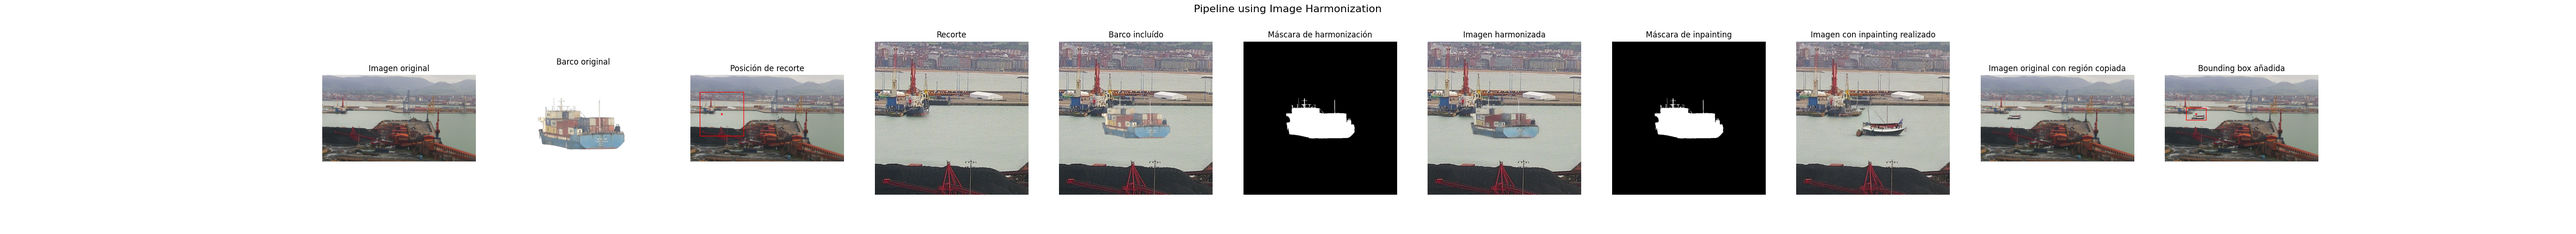
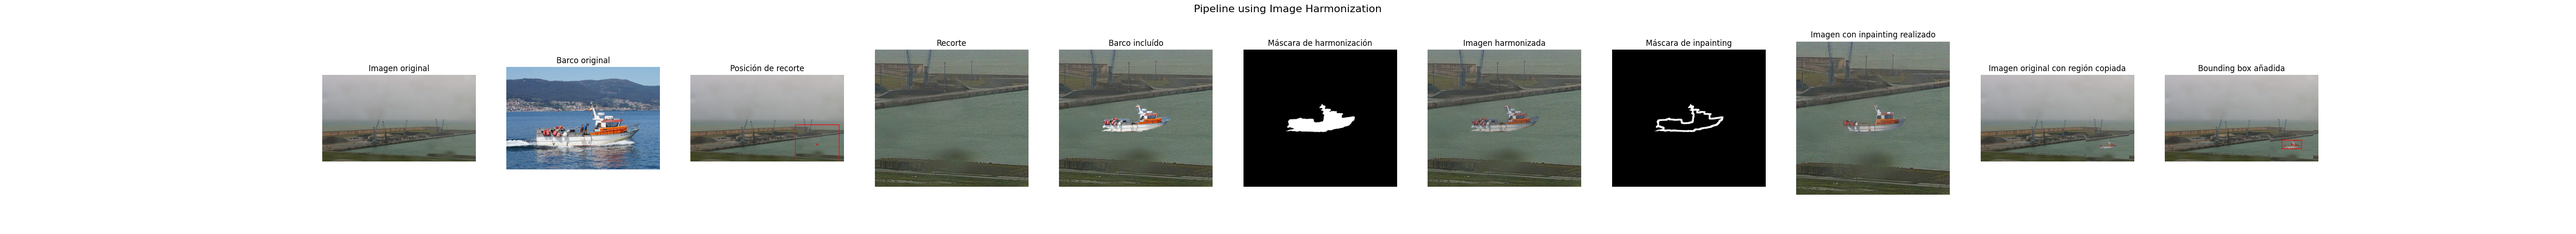
nueva cosa

Changed region(s): [[0.1244, 0.12, 0.9016, 0.84]]

diff --git a/pipelines/harmonization/main.py b/pipelines/harmonization/main.py
@@ -2,6 +2,7 @@ from typing import Tuple
 from PIL import Image
 from dataclasses import dataclass
 
+import random
 from pipelines.dependencies.background_removers.background_remover import BackgroundRemover
 from pipelines.dependencies.background_removers.mmseg_background_remover import MMSegBackgroundRemover
 from pipelines.dependencies.image_cropper import ImageCropper
@@ -13,6 +14,8 @@ from pipelines.dependencies.image_harmonizers.libcom_image_harmonizer import Lib
 from pipelines.dependencies.image_inpainters.image_inpainter import ImageInpainter
 from pipelines.dependencies.image_inpainters.stable_diffusion_image_inpainter import StableDiffusionImageInpainter
 from pipelines.dependencies.image_paster import ImagePaster
+from pipelines.dependencies.loggers.logger import Logger
+from pipelines.dependencies.loggers.terminal_logger import TerminalLogger
 from pipelines.dependencies.mmseg_api import MMSegAPI
 from pipelines.dependencies.point_extractors.mmseg_point_extractor import MMSegPointExtractor
 from pipelines.dependencies.point_extractors.point_extractor import PointExtractor
@@ -48,14 +51,20 @@ class HarmonizationDatasetGenerator:
     inpainter: ImageInpainter
     harmonizer: ImageHarmonizer
     quality_evaluator: QualityEvaluator
+    logger : Logger
 
     def generate(self, resolution: Tuple[int, int], save_as="result1"):
+        self.logger.info("Generating background")
         background = self.background_image_generator.generate()
+        self.logger.info("Generating boat")
         boat = self.boat_image_generator.generate()
 
+        self.logger.info("Extracting point of possible boat")
         boat_position = self.point_extractor.extract(background)
-        boat_without_background = boat
+        self.logger.info("Removing background of boat")
+        boat_without_background = self.background_remover.remove(boat)
 
+        self.logger.info("Making image composition of background and boat")
         background_cropped_image = self.image_cropper.crop(
             image=background,
             center=boat_position,
@@ -67,11 +76,13 @@ class HarmonizationDatasetGenerator:
             background=background_cropped_image,
             foreground=cleaned_boat,
             center=(background_cropped_image.size[0]//2, background_cropped_image.size[1]//2),
-            size_of=0.45
+            size_of=0.55
         )
+        self.logger.info("Harmonizing boat")
 
         harmonization_mask = self.generate_harmonization_mask(cleaned_boat, background_cropped_image)
         harmonized_image = self.harmonizer.harmonize(composited_image, harmonization_mask)
+        self.logger.info("Inpainting boat borders")
         inpainting_mask, fg_shape = self.generate_inpainting_mask(cleaned_boat, background_cropped_image, fg_shape)
         prompt = "A boat"
         inpainted_image = self.inpainter.inpaint(harmonized_image, inpainting_mask, prompt=prompt)
@@ -80,6 +91,7 @@ class HarmonizationDatasetGenerator:
             pasted_image=inpainted_image,
             center=boat_position
         )
+        self.logger.info("Generating insights of process")
         plot_images(
             [
                 background,
@@ -98,9 +110,9 @@ class HarmonizationDatasetGenerator:
             main_title="Pipeline using Image Harmonization",
             save_as=save_as
         )
-        self.quality_evaluator.evaluate_text_image_similarity(prompt, inpainted_image)
-        self.quality_evaluator.evaluate_image_similarity(background, pasted)
-        self.quality_evaluator.show_scores()
+        #self.quality_evaluator.evaluate_text_image_similarity(prompt, inpainted_image)
+        #self.quality_evaluator.evaluate_image_similarity(background, pasted)
+        #self.quality_evaluator.show_scores()
         return pasted
 
     def generate_inpainting_mask(self, cleaned_boat, cropped_image, fg_shape):
@@ -108,7 +120,7 @@ class HarmonizationDatasetGenerator:
             background=Image.new("RGB", cropped_image.size, color=(0, 0, 0)),
             foreground=self.inpainting_mask_generator.generate(cleaned_boat),
             center=(cropped_image.size[0] // 2, cropped_image.size[1] // 2),
-            size_of=0.45
+            size_of=0.55
         )
         return composited_inpainting_mask, fg_shape
 
@@ -117,39 +129,39 @@ class HarmonizationDatasetGenerator:
             background=Image.new("RGB", cropped_image.size, color=(0, 0, 0)),
             foreground=self.harmonization_mask_generator.generate(cleaned_boat),
             center=(cropped_image.size[0] // 2, cropped_image.size[1] // 2),
-            size_of=0.45
+            size_of=0.55
         )
         return composited_harmonization_mask
 
 
 folder = sys.argv[0] if sys.argv[0] else 0
 
-for iteration in range(0, 1):
-    dataset_generator = HarmonizationDatasetGenerator(
-        point_extractor=MMSegPointExtractor(MMSegAPI(url="http://100.103.218.9:4553/v1")),
-        background_image_generator=StochasticImageGenerator("assets/bgs/"),
-        boat_image_generator=StochasticImageGenerator("assets/boats/with_bg"),
-        background_remover=MMSegBackgroundRemover("ship",
-                                                  MMSegAPI(url="http://100.103.218.9:4553/v1")
-                                                  ),
-        image_cropper=ImageCropper(),
-        image_compositor=ImageCompositor(),
-        image_shape_adjuster=TransparentImageAdjuster(),
-        transparent_image_cleaner=TransparentImageCleaner(threshold=0.4),
-        harmonization_mask_generator=TransparentMaskGenerator(fill=True),
-        harmonizer=LibcomImageHarmonizer(),
-        inpainting_mask_generator=TransparentMaskGenerator(fill=False, border_size=121, inside_border=True),
-        inpainter=StableDiffusionImageInpainter(),
-        image_paster=ImagePaster(),
-        quality_evaluator=QualityEvaluator(
-            image_similarity=LPIPSImageSimilarityEvaluator(),
-            text_image_similarity= CLIPTextImageSimilarityEvaluator(),
-            aesthetic_eval=None,
-            dataset_similarity=FIDDatasetSimilarityEvaluator()
-        )
+dataset_generator = HarmonizationDatasetGenerator(
+    point_extractor=MMSegPointExtractor(MMSegAPI(url="http://100.103.218.9:4553/v1")),
+    background_image_generator=StochasticImageGenerator("assets/bgs/"),
+    boat_image_generator=StochasticImageGenerator("assets/boats/with_bg"),
+    background_remover=MMSegBackgroundRemover("ship",
+                                              MMSegAPI(url="http://100.103.218.9:4553/v1"),
+                                              ),
+    image_cropper=ImageCropper(),
+    image_compositor=ImageCompositor(),
+    image_shape_adjuster=TransparentImageAdjuster(),
+    transparent_image_cleaner=TransparentImageCleaner(threshold=0.4),
+    harmonization_mask_generator=TransparentMaskGenerator(fill=True),
+    harmonizer=LibcomImageHarmonizer(),
+    inpainting_mask_generator=TransparentMaskGenerator(fill=False, border_size=17, inside_border=True),
+    inpainter=StableDiffusionImageInpainter(),
+    image_paster=ImagePaster(),
+    quality_evaluator=QualityEvaluator(
+        image_similarity=LPIPSImageSimilarityEvaluator(),
+        text_image_similarity= CLIPTextImageSimilarityEvaluator(),
+        aesthetic_eval=None,
+        dataset_similarity=FIDDatasetSimilarityEvaluator()
+    ),
+    logger=TerminalLogger()
+)
+result = dataset_generator.generate(
+    resolution=(512, 512),
+    save_as=f's_dataset/process/result_{x}.png'
     )
-
-    dataset_generator.generate(
-        resolution=(512, 512),
-        save_as="result.png"
-        )
+result.save(f's_dataset/result_{x}.png')

diff --git a/pipelines/dependencies/image_harmonizers/libcom_image_harmonizer.py b/pipelines/dependencies/image_harmonizers/libcom_image_harmonizer.py
@@ -1,20 +1,20 @@
 import numpy as np
 from PIL import Image
-from libcom import PainterlyHarmonizationModel
+from libcom import ImageHarmonizationModel
 from libcom.utils.process_image import make_image_grid
 
 from pipelines.dependencies.image_harmonizers.image_harmonizer import ImageHarmonizer
 
 
 class LibcomImageHarmonizer(ImageHarmonizer):
-    def __init__(self, device: int = 0, model_type: str = 'PHDNet'):
-        self.model = PainterlyHarmonizationModel(device=device, model_type=model_type)
+    def __init__(self, device: int = 0, model_type: str = 'CDTNet'):
+        self.model = ImageHarmonizationModel(device=device, model_type=model_type)
 
     def harmonize(self, image: Image.Image, mask: Image.Image) -> Image.Image:
         image_np = np.array(image.convert('RGB'))
         mask_np = np.array(mask.convert('L'))
         output_np = self.model(image_np, mask_np)
-        output_image = Image.fromarray(output_np)
+        output_image = Image.fromarray(output_np.astype(np.uint8))
         return output_image
 
     def display_result(self, image: Image.Image, mask: Image.Image):

diff --git a/pipelines/dependencies/point_extractors/mmseg_point_extractor.py b/pipelines/dependencies/point_extractors/mmseg_point_extractor.py
@@ -21,8 +21,8 @@ class MMSegPointExtractor(PointExtractor):
         color = self.api.get_inference_color("sea")
         pixels = self.get_pixels_with_color(color, segmented_img)
         pixels_with_rules_applied = self.filter_pixels_by_rules(pixels, rules=[
-        self.pixels_cannot_be_near_y_axis_edge_with_color(120, segmented_img, color),
-        self.pixels_cannot_be_near_x_axis_edge_with_color(250, segmented_img, color)
+        self.pixels_cannot_be_near_y_axis_edge_with_color(80, segmented_img, color),
+        self.pixels_cannot_be_near_x_axis_edge_with_color(180, segmented_img, color)
         ])
         if not pixels_with_rules_applied:
             raise ValueError("No se encontraron píxeles válidos después de aplicar las reglas.")

diff --git a/pipelines/dependencies/quality_evaluators/quality_evaluator.py b/pipelines/dependencies/quality_evaluators/quality_evaluator.py
@@ -1,12 +1,3 @@
-<<<<<<< HEAD
-from abc import abstractmethod
-
-
-class QualityEvaluator:
-    @abstractmethod
-    def evaluate(self, truth, processed):
-        ...
-=======
 from typing import Optional
 
 from PIL import Image
@@ -58,7 +49,3 @@ class QualityEvaluator:
         2. ImageSimilarityMark: {}
         3. InpaintingTextSimilarityMark: {}
         """.format(self.aesthetic_mark, self.image_similarity_mark, self.text_image_mark))
-
-
-
->>>>>>> c287ba9e3614025d2d34a94444aed1fe99270c9e

diff --git a/pipelines/harmonization/dependencies/transparent_image_adjuster.py b/pipelines/harmonization/dependencies/transparent_image_adjuster.py
@@ -5,8 +5,7 @@ class TransparentImageAdjuster:
     def __init__(self):
         ...
     def adjust(self, image: Image.Image, threshold: float = 0) -> Image.Image:
-        if image.mode != "RGBA":
-            raise ValueError("Image must be in RGBA format")
+        image = image.convert("RGBA")
         width, height = image.size
         pixels = image.load()
         left, right, top, bottom = width, 0, height, 0

diff --git a/pipelines/dependencies/loggers/terminal_logger.py b/pipelines/dependencies/loggers/terminal_logger.py
@@ -1,0 +1,12 @@
+from pipelines.dependencies.loggers.logger import Logger
+
+
+class TerminalLogger(Logger):
+    def info(self, message):
+        print("Info: ", message)
+
+    def warning(self, message):
+        print("Warning: ", message)
+
+    def error(self, message):
+        print("Error: ", message)

diff --git a/pipelines/dependencies/loggers/logger.py b/pipelines/dependencies/loggers/logger.py
@@ -1,0 +1,13 @@
+from abc import abstractmethod
+
+
+class Logger:
+    @abstractmethod
+    def info(self, message):
+        ...
+    @abstractmethod
+    def warning(self, message):
+        ...
+    @abstractmethod
+    def error(self, message):
+        ...
